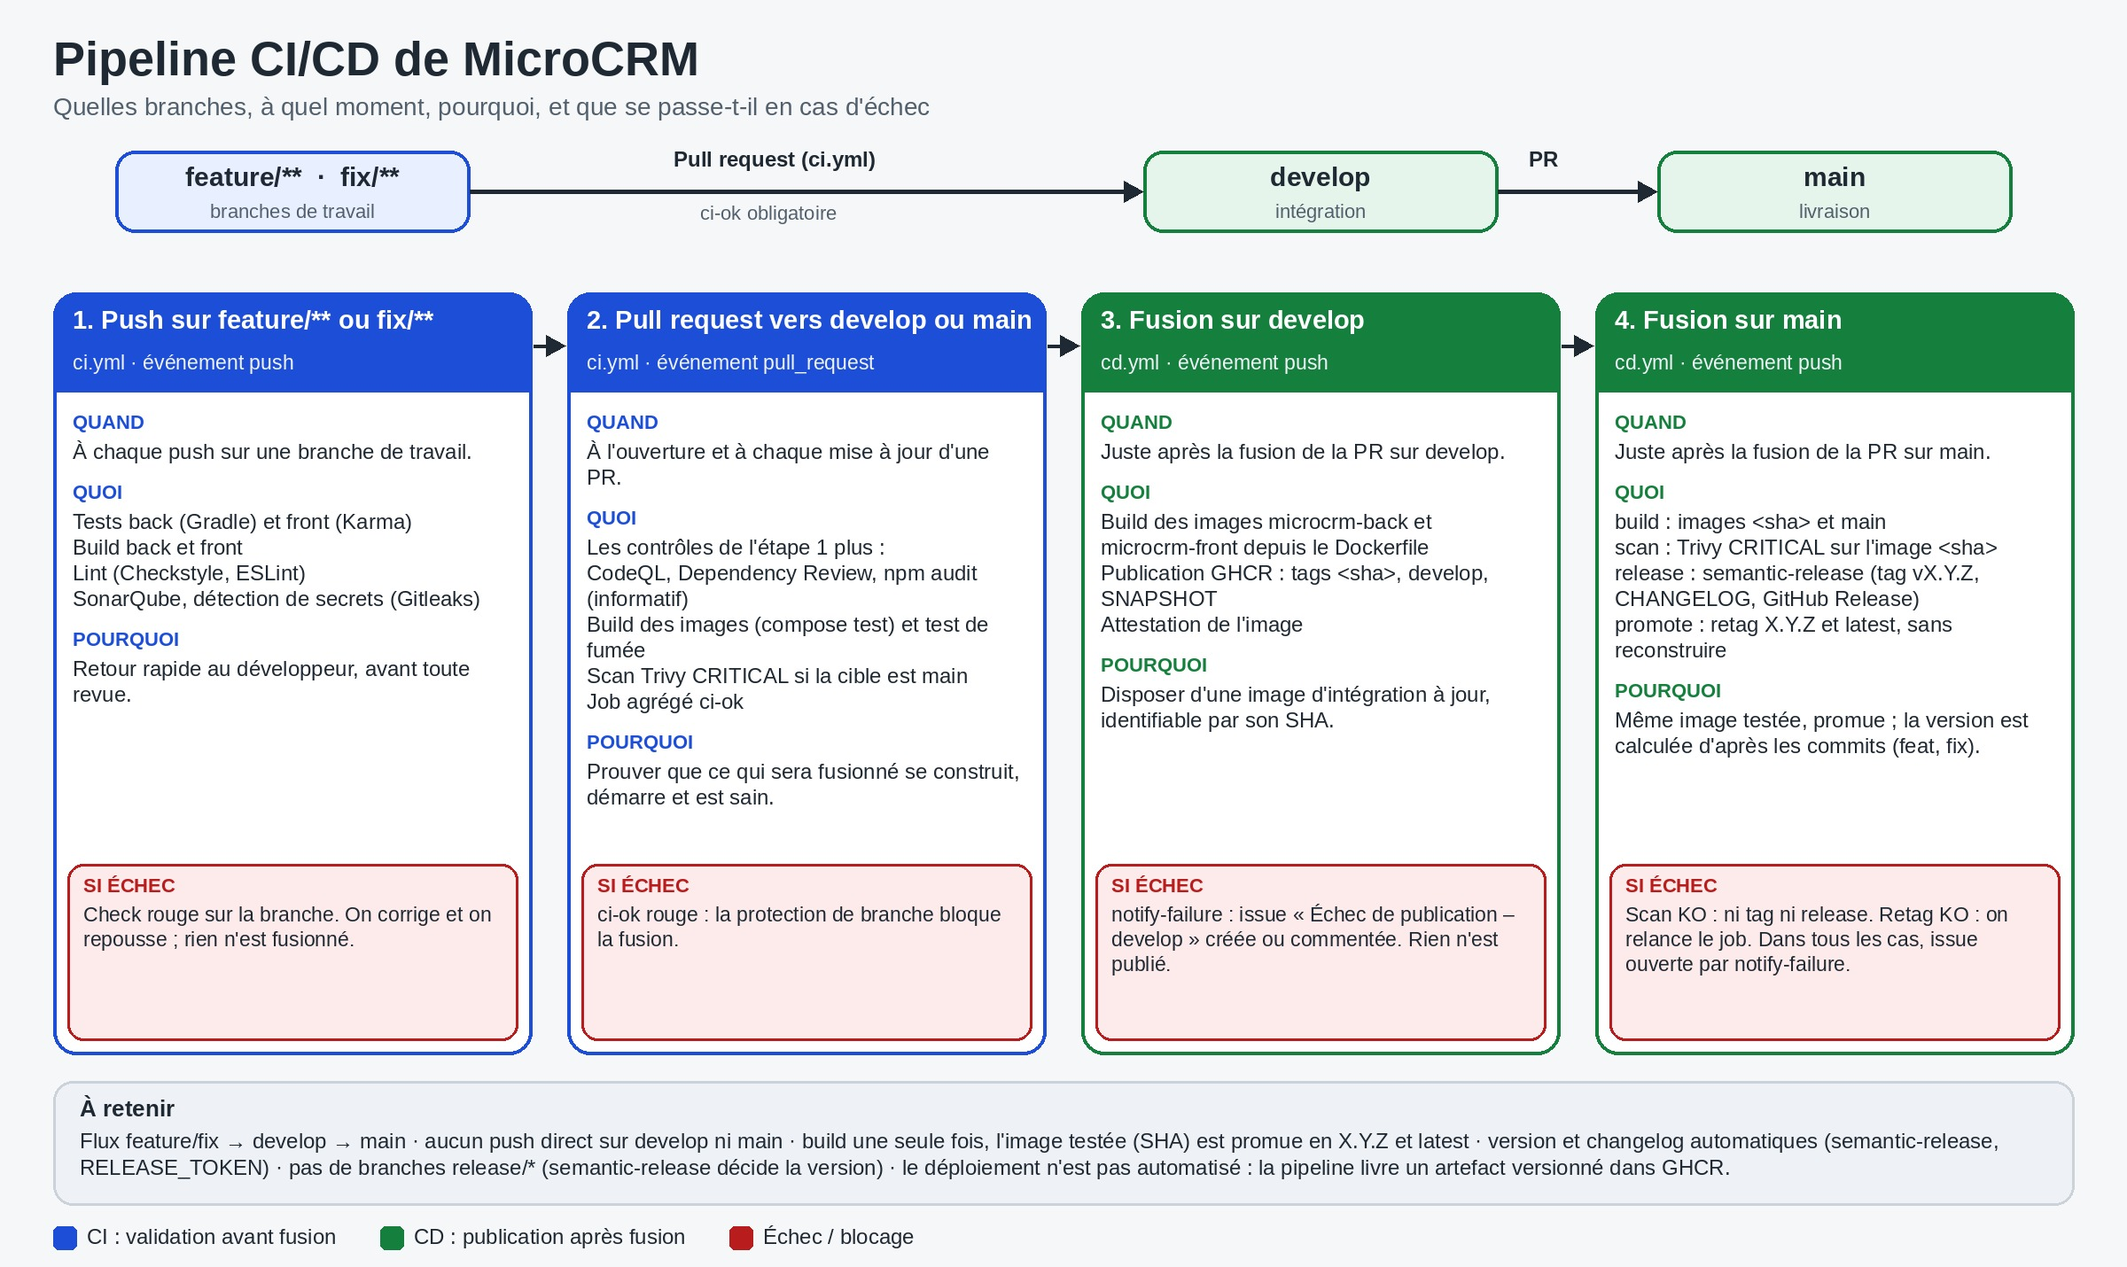
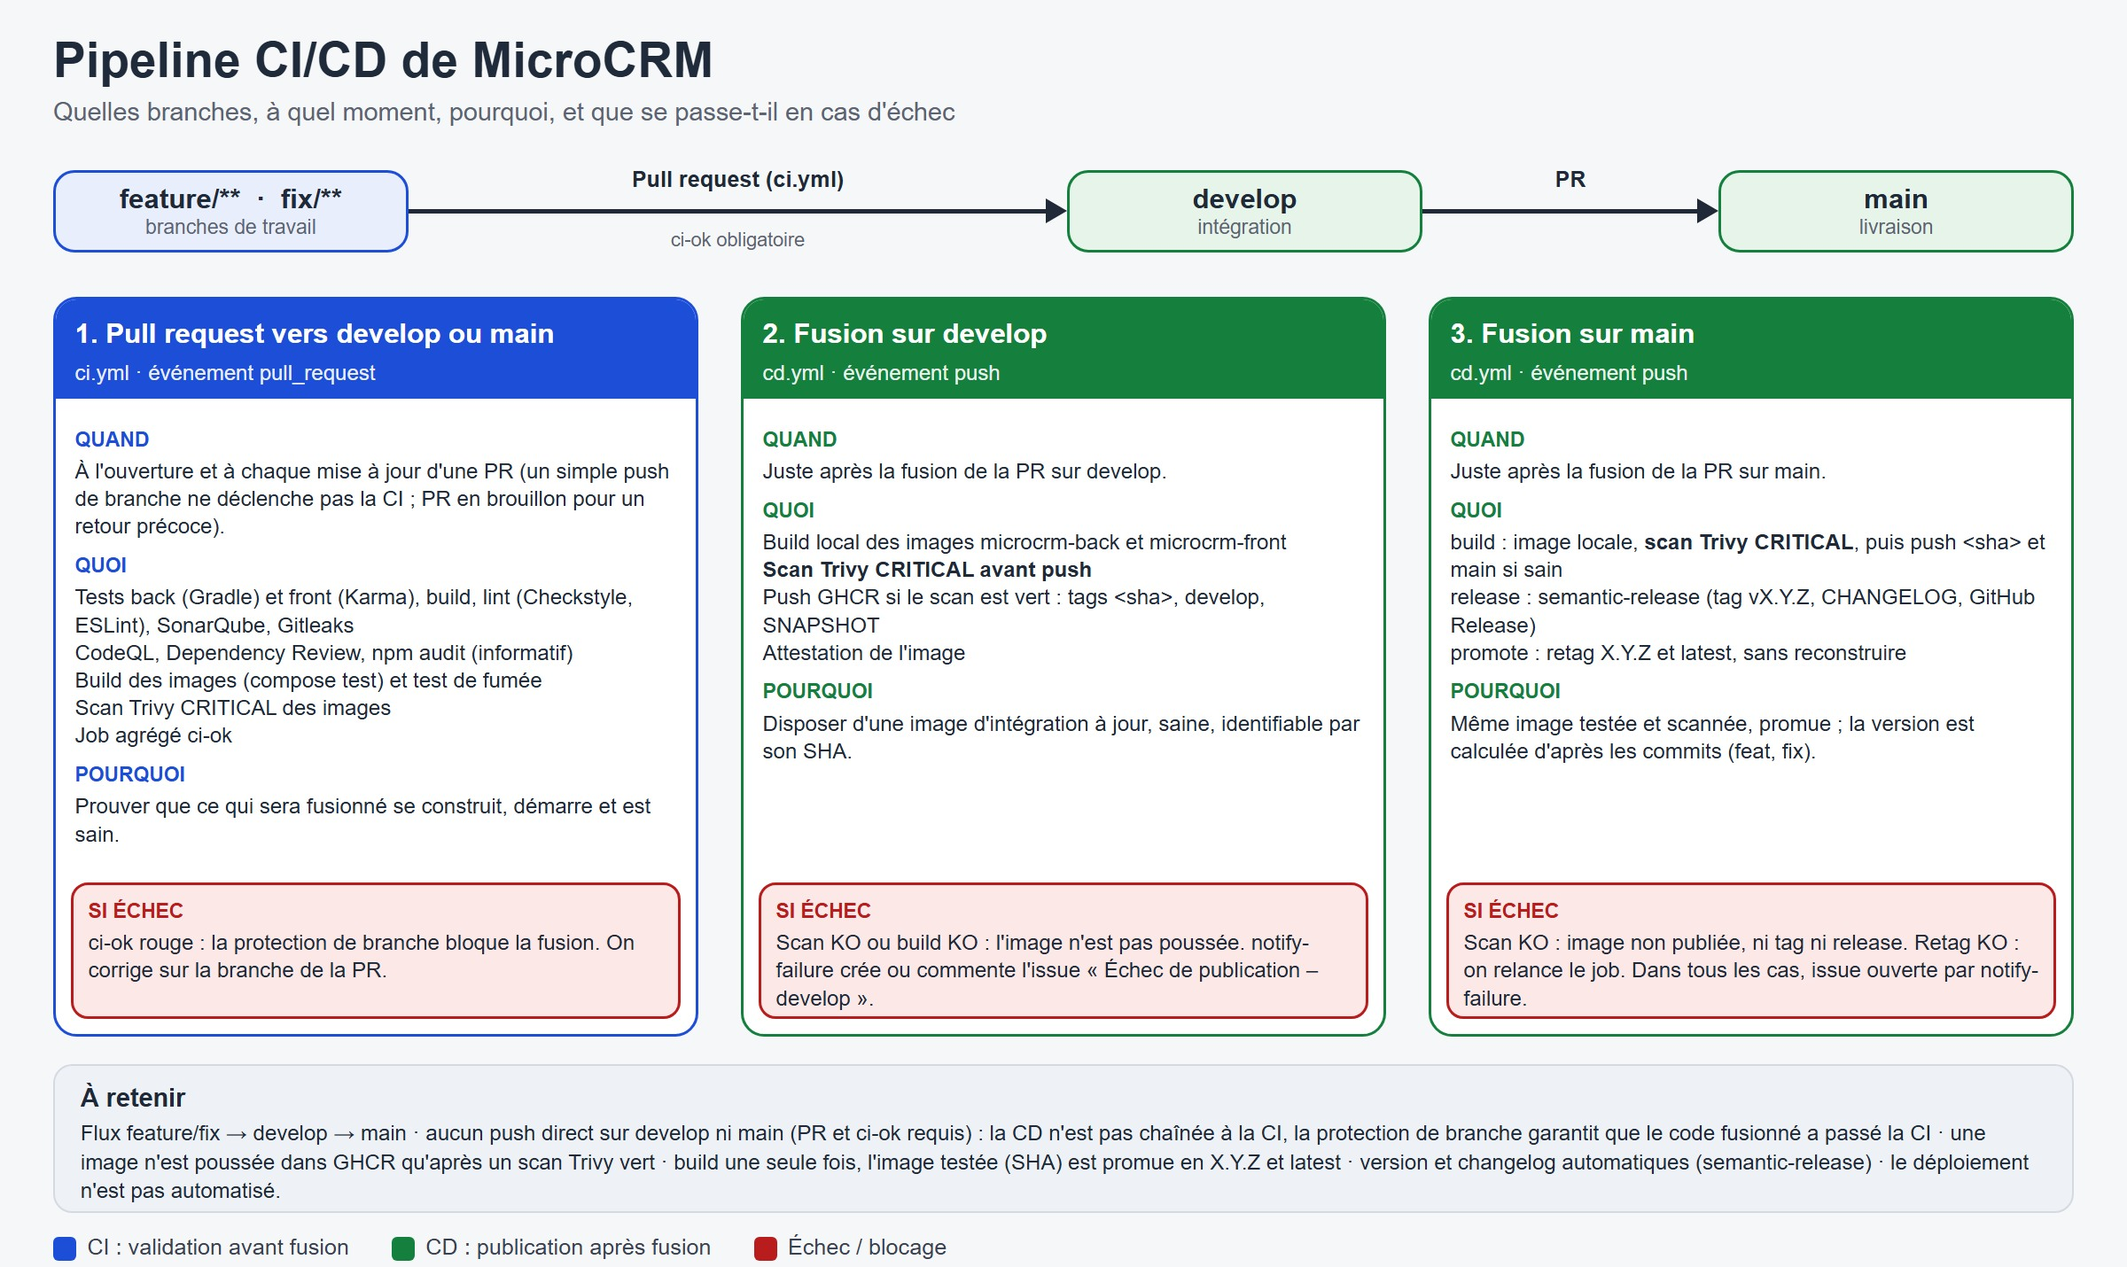
feat: update ci and cd and documentation
CI: only required PR on develop or main (fix both push and pr)
CD: analyze images before push in registry.

Changed region(s): [[0.0, 0.0308, 0.9688, 1.0], [0.7812, 0.0923, 0.9375, 0.1846], [0.9375, 0.1231, 0.9688, 0.1538]]

diff --git a/documentation/01-pipeline-ci-cd.md b/documentation/01-pipeline-ci-cd.md
@@ -14,29 +14,33 @@
 
 | Événement | Workflow | Contrôles | Pourquoi |
 |-----------|----------|-----------|----------|
-| Push `feature/**`, `fix/**` | `ci.yml` | Tests back et front, build, Checkstyle, ESLint, SonarQube, Gitleaks | Retour rapide au développeur |
-| PR vers `develop` ou `main` | `ci.yml` | Idem + CodeQL, Dependency Review, `npm audit`, build des images et test de fumée (`compose.test.yml`) ; **Trivy** si la cible est `main` ; job `ci-ok` | Condition de fusion |
-| Push (fusion) sur `develop` | `cd.yml` | Build `back` et `front`, push GHCR (`<sha>`, `develop`, `SNAPSHOT`), attestation | Image d'intégration |
-| Push (fusion) sur `main` | `cd.yml` | build → scan Trivy → release → promotion | Livrer une version |
+| PR vers `develop` ou `main` | `ci.yml` | Tests back et front, build, Checkstyle, ESLint, SonarQube, Gitleaks, CodeQL, Dependency Review, `npm audit`, build des images et test de fumée (`compose.test.yml`) ; **Trivy** (même seuil que la CD) ; job `ci-ok` | Condition de fusion |
+| Push (fusion) sur `develop` | `cd.yml` | Build `back` et `front`, scan Trivy, puis push GHCR (`<sha>`, `develop`, `SNAPSHOT`), attestation | Image d'intégration |
+| Push (fusion) sur `main` | `cd.yml` | build + scan Trivy avant push → release → promotion | Livrer une version |
+| Chaque nuit (02 h UTC) ou manuel | `nightly.yml` | Sur les images GHCR `:develop` et `:main` : SBOM CycloneDX, rapport de vulnérabilités (toutes sévérités), contrôle CRITICAL ; `npm audit` en JSON ; arbre de dépendances Gradle | Détecter les CVE publiées après la fusion |
 
-Jobs de `cd.yml` sur `main` :
+La CI ne se déclenche plus sur les push de branche (`feature/**`, `fix/**`) : elle ne tourne que sur PR, ce qui évite la double exécution (push + PR) et fait de `ci-ok` le reflet de tous les contrôles. Pour un retour avant revue, ouvrir une PR en brouillon ou lancer `ci.yml` à la main.
 
-1. **build** : images `microcrm-back` et `microcrm-front` taguées `<sha>` et `main`.
-2. **scan** : Trivy (CRITICAL, vulnérabilités sans correctif ignorées) sur `:<sha>`.
-3. **release** : semantic-release (secret `RELEASE_TOKEN`) : version, `CHANGELOG.md` commité, tag `vX.Y.Z`, GitHub Release.
-4. **promote** (si une version est créée) : retag de `:<sha>` en `:X.Y.Z` et `:latest`, **sans reconstruire**.
-5. **notify-failure** : si un des jobs échoue.
+Les résultats de l'analyse Sonar de chaque PR se consultent sur SonarQube Cloud (onglet Pull Requests du projet). `nightly.yml` publie les artefacts `nightly-<service>-<branche>` (SBOM `*.cdx.json` et `vulns-*.json`), `nightly-npm-audit` et `nightly-gradle-dependencies`. Un échec de l'analyse nocturne (CVE critique corrigeable) crée une issue `nightly-failure`. Un workflow planifié ne tourne que depuis la branche par défaut : `nightly.yml` doit être fusionné sur `main`.
 
-`ci.yml` annule les exécutions concurrentes d'une même branche. `workflow_dispatch` est disponible sur les deux workflows ; en manuel, `cd.yml` construit sans publier et ne lance pas la release.
+La CD n'est pas chaînée à la CI : la protection de branche sur `develop` et `main` (PR obligatoire, `ci-ok` requis) garantit que le code fusionné a passé la CI.
+
+Jobs de `cd.yml` :
+
+1. **build** (matrice `back`, `front`) : construction locale de l'image, **scan Trivy** (CRITICAL, vulnérabilités sans correctif ignorées), puis push GHCR taguée `<sha>` et nom de branche (`SNAPSHOT` sur `develop`) **uniquement si le scan est vert**. Une image vulnérable n'est donc jamais publiée.
+2. **release** (`main`) : semantic-release (secret `RELEASE_TOKEN`) : version, `CHANGELOG.md` commité, tag `vX.Y.Z`, GitHub Release.
+3. **promote** (si une version est créée) : retag de `:<sha>` en `:X.Y.Z` et `:latest`, **sans reconstruire**.
+4. **notify-failure** : si un des jobs échoue.
+
+`ci.yml` annule les exécutions concurrentes d'une même PR. `workflow_dispatch` est disponible sur les deux workflows ; en manuel, `cd.yml` construit sans publier et ne lance pas la release.
 
 ## 3. En cas d'échec
 
 | Où | Conséquence | Action |
 |----|-------------|--------|
-| Push de branche | Check rouge, rien d'autre | Corriger et repousser |
 | PR | `ci-ok` rouge : fusion bloquée | Corriger sur la branche de PR |
-| `build` | Rien de publié ; issue ouverte | Relancer le job si cause temporaire, sinon PR de correction |
-| `scan` (CVE critique) | Ni tag, ni changelog, ni release, ni `X.Y.Z` ; issue ouverte | Corriger la dépendance ou l'image de base, nouvelle PR |
+| `build` (construction ou push) | Rien de publié ; issue ouverte | Relancer le job si cause temporaire, sinon PR de correction |
+| `build`, étape scan (CVE critique) | Image non poussée, ni changelog, ni release, ni `X.Y.Z` ; issue ouverte | Corriger la dépendance ou l'image de base, nouvelle PR |
 | `release` | Pas de version ; issue ouverte | Vérifier `RELEASE_TOKEN` (expiration, bypass de la protection) |
 | `promote` | Release créée, tags `X.Y.Z`/`latest` absents ; issue ouverte | Relancer le job (aucune reconstruction) |
 

diff --git a/documentation/03-lancer-chaque-etape.md b/documentation/03-lancer-chaque-etape.md
@@ -36,22 +36,53 @@ Prérequis locaux : JDK 17, Node 20, Docker (avec Compose), Chrome/Chromium pour
 |--------|----------|
 | Développer avec le code local | `docker compose -f compose.yml -f compose.dev.yml up --build` |
 | Reproduire le test de fumée de la CI | `docker compose -f compose.yml -f compose.test.yml up -d --build --wait --wait-timeout 120` puis `curl http://localhost:8080/organizations` ; arrêt : `docker compose -f compose.yml -f compose.test.yml down -v` |
-| Image de `develop` (sans compiler) | `TAG=SNAPSHOT RELEASE_PROFILE=dev docker compose -f compose.yml -f compose.release.yml up -d` |
-| Version publiée | `TAG=1.2.0 docker compose -f compose.yml -f compose.release.yml up -d` (profil `prod` par défaut) |
+| Image de `develop` (sans compiler) | `TAG=SNAPSHOT RELEASE_PROFILE=dev` + `compose.release.yml` — voir [Lancer une image publiée](#lancer-une-image-publiée-selon-los) |
+| Version publiée | `TAG=1.2.0` + `compose.release.yml` (profil `prod` par défaut) — voir [Lancer une image publiée](#lancer-une-image-publiée-selon-los) |
 | Une seule image | `docker build --target back -t microcrm-back .` (ou `front`) |
 
 - Le front est servi sur https://localhost (certificat auto-signé de Caddy), l'API sur http://localhost:8080.
 - `TAG` est obligatoire avec `compose.release.yml` ; `docker login ghcr.io` si les packages sont privés.
 - Retour arrière : relancer avec le `TAG` d'une version précédente (`X.Y.Z` ou SHA), toujours présent dans GHCR.
 
+### Lancer une image publiée (selon l'OS)
+
+La syntaxe `VAR=valeur commande` ne marche qu'en bash/zsh. Exemple pour la version `1.2.0` ; pour l'image de `develop`, remplacer par `TAG=SNAPSHOT` et ajouter `RELEASE_PROFILE=dev`.
+
+**Linux / macOS (bash, zsh) — et Git Bash sous Windows**
+
+```shell
+TAG=1.2.0 docker compose -f compose.yml -f compose.release.yml up -d
+TAG=SNAPSHOT RELEASE_PROFILE=dev docker compose -f compose.yml -f compose.release.yml up -d
+```
+
+**Windows — PowerShell** (invite `PS C:\...>`)
+
+```powershell
+$env:TAG="1.2.0"; docker compose -f compose.yml -f compose.release.yml up -d
+$env:TAG="SNAPSHOT"; $env:RELEASE_PROFILE="dev"; docker compose -f compose.yml -f compose.release.yml up -d
+```
+
+Les variables restent définies dans la session : `Remove-Item Env:TAG, Env:RELEASE_PROFILE` pour les effacer. Attention, `set` y est un alias de `Set-Variable` : la syntaxe cmd ne fonctionne pas.
+
+**Windows — cmd**
+
+```bat
+set "TAG=1.2.0" && docker compose -f compose.yml -f compose.release.yml up -d
+set "TAG=SNAPSHOT" && set "RELEASE_PROFILE=dev" && docker compose -f compose.yml -f compose.release.yml up -d
+```
+
+Garder les guillemets : sans eux, l'espace avant `&&` est inclus dans la valeur (tag invalide).
+
+**Toutes plateformes** : écrire `TAG=1.2.0` (et éventuellement `RELEASE_PROFILE=dev`) dans un fichier `.env` à la racine, lu automatiquement par Compose, puis `docker compose -f compose.yml -f compose.release.yml up -d`.
+
 ## 5. Déclencher les workflows
 
 | Pour lancer… | Faire |
 |--------------|-------|
-| `ci.yml` (contrôles de branche) | `git push` sur `feature/**` ou `fix/**` |
-| `ci.yml` (contrôles de PR) | Ouvrir ou mettre à jour une PR vers `develop` ou `main` |
+| `ci.yml` | Ouvrir ou mettre à jour une PR vers `develop` ou `main` (PR en brouillon pour un retour avant revue ; un simple push de branche ne déclenche plus la CI) |
 | `cd.yml` sur `develop` | Fusionner une PR sur `develop` |
 | `cd.yml` sur `main` (release) | Fusionner `develop` dans `main` avec au moins un `feat:` ou `fix:` |
+| `nightly.yml` | Automatique chaque nuit (02 h UTC, depuis `main`) ; Actions → Nightly → *Run workflow* pour le lancer à la main |
 | Relancer un job en échec | Onglet Actions → run → *Re-run failed jobs* |
 | Lancement manuel | Actions → workflow → *Run workflow* (`workflow_dispatch`) ; `cd.yml` construit sans publier et ne lance pas la release |
 

diff --git a/documentation/04-securite.md b/documentation/04-securite.md
@@ -4,15 +4,17 @@
 
 | Contrôle | Outil | Quand | Bloquant |
 |----------|-------|-------|----------|
-| Secrets | Gitleaks | Push et PR | Oui |
-| Qualité et sécurité du code | SonarQube Cloud (quality gate) | Push et PR | Selon le gate |
+| Secrets | Gitleaks | PR | Oui |
+| Qualité et sécurité du code | SonarQube Cloud (quality gate) | PR | Selon le gate |
 | SAST | CodeQL (Java/Kotlin, JavaScript/TypeScript) | PR | Selon la configuration GitHub |
 | Dépendances et licences | Dependency Review | PR | Oui, à partir de *high* |
 | Dépendances front | `npm audit` | PR | Non (`--audit-level=none`, informatif) |
-| Image | Trivy, sévérité **CRITICAL**, `ignore-unfixed` | PR vers `main` (sur images compose) ; `cd.yml` sur `main` avant release | Oui |
+| Image | Trivy, sévérité **CRITICAL**, `ignore-unfixed` | PR vers `develop` et `main` (sur images compose) ; `cd.yml` sur `develop` et `main`, **avant le push** de l'image | Oui |
 | Provenance | Attestation GitHub des images publiées | Fusion sur `develop` / `main` | – |
+| SBOM | Trivy (CycloneDX) sur les images `:develop` et `:main` | Chaque nuit (`nightly.yml`) | Non (artefact) |
+| Vulnérabilités dans le temps | Trivy (rapport complet, contrôle CRITICAL), `npm audit`, arbre Gradle | Chaque nuit (`nightly.yml`) | CRITICAL corrigeable : issue `nightly-failure` |
 
-Dependabot, hadolint, SBOM et scans planifiés ne sont pas en place (voir [06](06-evolutions.md)).
+Dependabot, hadolint et la signature des images (cosign) ne sont pas en place (voir [06](06-evolutions.md)).
 
 ## 2. Secrets
 
@@ -57,7 +59,7 @@ Version actuelle : Spring Boot **4.1.1**, Gradle **8.14.5**.
 
 ## 5. Traiter une vulnérabilité
 
-1. Le job (`scan`, Dependency Review, Sonar) échoue : lire le rapport.
+1. Le contrôle (étape de scan Trivy du job `build`, Dependency Review, Sonar) échoue : lire le rapport.
 2. Mettre à jour la dépendance ou l'image de base (ou surcharger la version dans `build.gradle` en attendant Spring Boot).
 3. Si aucun correctif n'existe, Trivy l'ignore déjà (`ignore-unfixed`).
-4. Relancer ; la fusion ou la release reprend une fois le job vert.
+4. Relancer ; la fusion ou la release reprend une fois le contrôle vert. En CD, une image qui échoue au scan n'est jamais poussée dans GHCR.

diff --git a/documentation/CICD-synthese.md b/documentation/CICD-synthese.md
@@ -11,16 +11,17 @@ author: "Michael Delamarre"
 
 | Étape | Déclencheur | Contrôles / actions |
 |-------|-------------|---------------------|
-| CI sur branche | Push `feature/**`, `fix/**` | Tests, build, lint, SonarQube, Gitleaks |
-| CI sur PR | PR vers `develop` / `main` | Idem + CodeQL, Dependency Review, `npm audit`, build des images et test de fumée ; Trivy vers `main` ; `ci-ok` requis |
-| Publication `develop` | Fusion sur `develop` | Images GHCR `<sha>`, `develop`, `SNAPSHOT` |
-| Release `main` | Fusion sur `main` | Images `<sha>` → scan Trivy → semantic-release (tag, changelog, GitHub Release) → retag `X.Y.Z` et `latest` |
+| CI sur PR | PR vers `develop` / `main` (pas de CI sur simple push de branche) | Tests, build, lint, SonarQube, Gitleaks, CodeQL, Dependency Review, `npm audit`, build des images et test de fumée ; Trivy ; `ci-ok` requis |
+| Publication `develop` | Fusion sur `develop` | Build, scan Trivy, puis push GHCR `<sha>`, `develop`, `SNAPSHOT` |
+| Release `main` | Fusion sur `main` | Build + scan Trivy avant push `<sha>` → semantic-release (tag, changelog, GitHub Release) → retag `X.Y.Z` et `latest` |
+| Analyse nocturne | Chaque nuit (`nightly.yml`) | SBOM CycloneDX et rapport de vulnérabilités des images `:develop` et `:main`, `npm audit`, dépendances Gradle ; rapports en artefacts |
 | Échec de publication | Un job de `cd.yml` en échec | Issue créée ou commentée |
 
 Flux : `feature/fix → develop → main`, sans branches `release/*`. La pipeline livre des **images versionnées** ; le déploiement n'est pas automatisé.
 
 ## Points clés
 
+- **Scan avant publication** : l'image est construite et scannée localement, puis poussée seulement si Trivy est vert.
 - **Une seule construction** : l'image testée (`<sha>`) est promue en `X.Y.Z`, sans reconstruction.
 - **Version automatique** d'après les commits conventionnels (`fix:` correctif, `feat:` mineure, `feat!:` majeure).
 - **Secrets** : `SONAR_TOKEN` (analyse), `RELEASE_TOKEN` (PAT pour pousser changelog et tag sur `main` protégée).

diff --git a/documentation/08-dora-kpi.md b/documentation/08-dora-kpi.md
@@ -15,9 +15,11 @@ Lecture : aucun incident de production n'est enregistré (l'issue `publish-failu
 
 Limites : le MTTR est un proxy (pas d'incident de production réel) ; la fréquence de déploiement n'a qu'une journée d'historique.
 
+Évolution du pipeline depuis ce relevé : (1) la CI ne tourne plus sur les push de branche mais uniquement sur PR, ce qui supprime les runs en double ; le taux de réussite et le MTTR de la CI, calculés sur les anciens runs push + PR, sont à recalculer. (2) La CD scanne l'image avant de la pousser (build local, Trivy, puis push) : les durées de CD ci-dessous précèdent ce changement et seront un peu plus longues (scan, et second build servi par le cache).
+
 ## 2. KPI opérationnels
 
-### Pipeline (mesurés sur 6 runs CI réussis de PR)
+### Pipeline (mesurés sur 6 runs CI réussis de PR, avant l'ajout du scan Trivy dans le job `build` de la CD)
 
 | KPI | Valeur actuelle (médiane) | Objectif |
 |---|---|---|
@@ -49,7 +51,7 @@ Source : analyses des pull requests.
 
 Le quality gate par défaut ne porte que sur le **nouveau code** ; la couverture globale de 36,9 % n'est donc pas bloquante aujourd'hui.
 
-Constat : la CI n'analyse que les branches `feature/**`, `fix/**` et les PR, donc l'analyse Sonar de `main` datait du 13/10 (commit d'init, avant la config de couverture) et affichait des chiffres périmés (21 bugs, 6 vulnérabilités, pas de couverture, quality gate `NONE`). À corriger si besoin : faire analyser `main` par un workflow.
+Constat : la CI n'analyse que les PR (les push sur `feature/**` et `fix/**` ne la déclenchent plus), donc l'analyse Sonar de `main` datait du 13/10 (commit d'init, avant la config de couverture) et affichait des chiffres périmés (21 bugs, 6 vulnérabilités, pas de couverture, quality gate `NONE`). À corriger si besoin : faire analyser `main` par un workflow.
 
 ### Exploitation (logs et supervision, via ELK)
 

diff --git a/documentation/06-evolutions.md b/documentation/06-evolutions.md
@@ -4,11 +4,11 @@
 |-----------|----------|-----------|
 | Déploiement automatisé (`deploy.yml`, SSH + Compose), environnements test / pré-prod / prod, approbation pour la prod | La pipeline s'arrête aujourd'hui à la publication GHCR | Hébergement défini |
 | Retour arrière automatique et `rollback.yml` | Revenir sur un déploiement en échec | Environnement déployé |
-| Rejouer test de fumée et scan **avant** le push de l'image sur `main` | L'image `:sha` est publiée avant son scan ; le test de fumée n'est exécuté que sur la PR | – |
-| Nightly (suite sans cache, audit) et weekly (rebuild sans cache, scan) | Détecter les dérives sans commit | Workflows à écrire |
+| Rejouer le test de fumée **avant** le push de l'image | Le scan Trivy est fait avant le push, mais le test de fumée n'est exécuté que sur la PR | – |
+| Nightly : suite de tests sans cache ; weekly : rebuild sans cache et scan | Détecter les dérives sans commit (le nightly actuel ne couvre que SBOM, dépendances et scan des images publiées) | Workflows à écrire |
 | Tests end-to-end | Valider les parcours | Outil choisi (Cypress, Playwright) |
 | Base persistante, sauvegarde et test de restauration | Aujourd'hui HSQLDB en mémoire | PostgreSQL ou HSQLDB fichier + volume |
-| Dependabot, hadolint, SBOM (Trivy/Syft), signature (cosign) | Chaîne d'approvisionnement | – |
+| Dependabot, hadolint, signature (cosign) | Chaîne d'approvisionnement (le SBOM est produit chaque nuit, mais n'est pas attaché aux images ni signé) | – |
 | `npm audit` bloquant | Aujourd'hui informatif (`none`) | Corriger les vulnérabilités front existantes |
 | URL de l'API lue à l'exécution (proxy `/api` dans Caddy ou configuration servie) | L'image ne fonctionne qu'en local | – |
 | HTTPS avec nom de domaine, en-têtes de sécurité (CSP, HSTS) | Mise en production réelle | Domaine |
